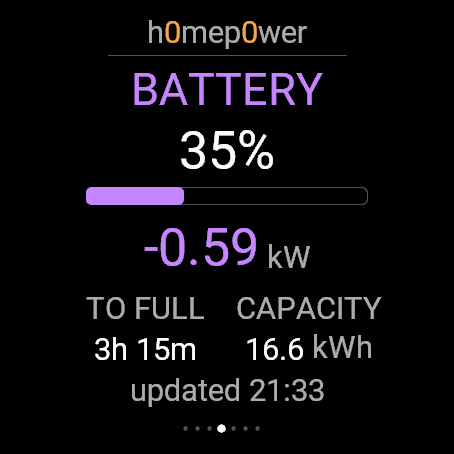
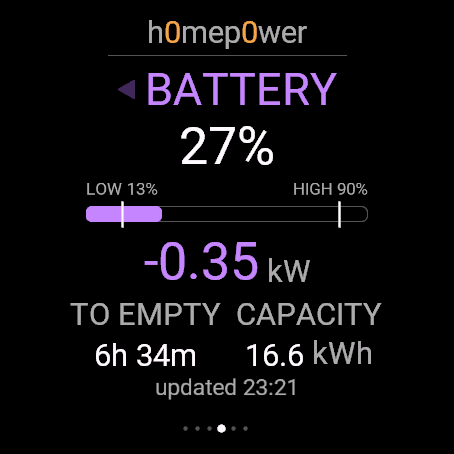
Refresh screenshots for the redesigned pages, update README contract
Screenshots were stale from before the Battery/Home/List redesign and
predated the Grid page's removal. Re-captured all six current pages
against live data and dropped grid.png. Also brought the "Expected
JSON" section up to date with every field the backend now sends
(batteryMinutesToEmpty/batteryFloorPct/batteryMaxPct,
solarDirectToday/batteryDischargedToday/batteryChargedToday,
homeFromGridHistory/homeFromBatteryHistory).

diff --git a/README.md b/README.md
@@ -8,21 +8,16 @@ A native Garmin Connect IQ watch app for the 454×454 AMOLED Fēnix 8 target, sh
 |---|---|---|
 | ![Overview](docs/screenshots/overview.png) | ![Solar](docs/screenshots/solar.png) | ![Home](docs/screenshots/home.png) |
 
-| Battery | Grid | List |
+| Battery | Today | Connection |
 |---|---|---|
-| ![Battery](docs/screenshots/battery.png) | ![Grid](docs/screenshots/grid.png) | ![List](docs/screenshots/list.png) |
-
-| Connection |
-|---|
-| ![Connection](docs/screenshots/connection.png) |
+| ![Battery](docs/screenshots/battery.png) | ![Today](docs/screenshots/list.png) | ![Connection](docs/screenshots/connection.png) |
 
 1. **Overview** — the live view: all four metrics at a glance, 2×2 grid, no +/- signs - Grid and Battery instead show a pulsing drawn triangle for direction (export/discharge before the word, import/charge after - same pattern both cells share)
-2. **Solar** — current output, plus a stacked-area graph spanning the whole day (0h–24h on the x-axis) - PV→battery stacked under PV→home, total production traced on top, same composition as the web app's Graph tab - with a pulsing dot marking "now"
-3. **Home** — current consumption, bar chart, today's total
-4. **Battery** — charge %, a fill bar, charge/discharge rate, time-to-full, capacity
-5. **Grid** — import/export rate, bar chart, today's exported/imported totals
-6. **List** — all four metrics as compact rows
-7. **Connection** — online/offline status, manual retry
+2. **Solar** — a stacked-area graph spanning the whole day (0h–24h on the x-axis) - PV→battery stacked under PV→home, total production traced on top, same composition as the web app's Graph tab - with a pulsing dot marking "now", plus today's total and peak
+3. **Home** — 24 fixed hourly stacked bars (grid base, battery middle, solar remainder on top), matching the web app's Dashboard stacked-bar composition, plus today's total and the current rate
+4. **Battery** — charge %, a fill bar with LOW/HIGH SOC threshold markers, charge/discharge rate, "TO FULL"/"TO EMPTY" time estimate, capacity - the title carries the same direction triangle as Overview's Battery cell
+5. **Today** — a breakdown matching the web app's Dashboard "today" tile: total consumption, produced, then Grid/direct-PV/from-battery/to-battery/to-grid each with kWh (percentages, computed the same way the web app does, only on the three rows that sum to ~100% of consumption)
+6. **Connection** — online/offline status, manual retry
 
 Click/tap the watch face (or press **START/ENTER**) to advance a page; the last page retries the connection instead of advancing.
 
@@ -60,20 +55,28 @@ With `USE_DEMO_DATA = true` the app runs standalone with static demo values — 
   "grid": -2.34,
   "battery": 78,
   "batteryPower": 1.20,
+  "batteryCapacity": 14.2,
+  "batteryMinutesToFull": 195,
+  "batteryMinutesToEmpty": 340,
+  "batteryFloorPct": 10,
+  "batteryMaxPct": 95,
   "solarToday": 18.4,
+  "solarDirectToday": 6.9,
   "homeToday": 22.6,
   "exportedToday": 18.1,
   "importedToday": 6.4,
-  "batteryCapacity": 14.2,
-  "batteryMinutesToFull": 195,
+  "batteryDischargedToday": 3.8,
+  "batteryChargedToday": 9.2,
   "solarHistory": [0.4, 0.7, 1.1, 1.8, 2.6, 3.4, 4.0, 4.4],
   "solarBatteryHistory": [0.0, 0.1, 0.3, 0.6, 0.9, 1.2, 1.4, 1.5],
   "homeHistory": [1.2, 1.6, 1.3, 1.1, 1.0, 1.2, 1.4, 1.7],
+  "homeFromGridHistory": [1.2, 1.6, 1.3, 1.1, 1.0, 1.2, 1.4, 1.3],
+  "homeFromBatteryHistory": [0.0, 0.0, 0.0, 0.0, 0.0, 0.0, 0.0, 0.2],
   "gridHistory": [-0.8, -1.1, -1.6, -2.1, -2.4, -2.8, -3.1, -3.0]
 }
 ```
 
-`grid`: negative = exporting, positive = importing. `batteryPower`: positive = charging, negative = discharging. The `*History` arrays feed the Solar page's day graph — they should span from local midnight to now for that graph to read correctly (a known gap: the current backend sends a trailing 8h window instead; see `h0me-p0wer`'s `WATCH.readme` for the fix in progress). `solarBatteryHistory` is the portion of each `solarHistory` sample routed to the battery (same cadence/length) — the graph stacks it under the PV→home remainder (`solarHistory[i] - solarBatteryHistory[i]`) beneath the total production line, matching the web app's Graph tab. Not sent by the backend yet either (same readme, follow-up 2) — falls back to a static demo curve until then.
+`grid`: negative = exporting, positive = importing. `batteryPower`: positive = charging, negative = discharging. `solarToday` is total production; `solarDirectToday` is the PV-direct-to-home portion of it (a smaller number). `batteryDischargedToday`/`batteryChargedToday` are cells-only, excluding PV pass-through. The `*History` arrays feed the Solar day graph and Home stacked bars — they span from local midnight to now, one point per hour. `solarBatteryHistory` is the portion of each `solarHistory` sample routed to the battery (same cadence/length) — the Solar graph stacks it under the PV→home remainder beneath the total production line. `homeFromGridHistory`/`homeFromBatteryHistory` split `homeHistory` the same way for the Home page's stacked bars (grid base, battery middle, solar remainder — `homeHistory[i] - homeFromGridHistory[i] - homeFromBatteryHistory[i]` — on top). Any array shorter than its sibling (e.g. still demo-fallback) is nearest-neighbor resampled onto the real array's index range rather than truncating it.
 
 ## Installing on the real watch
 
